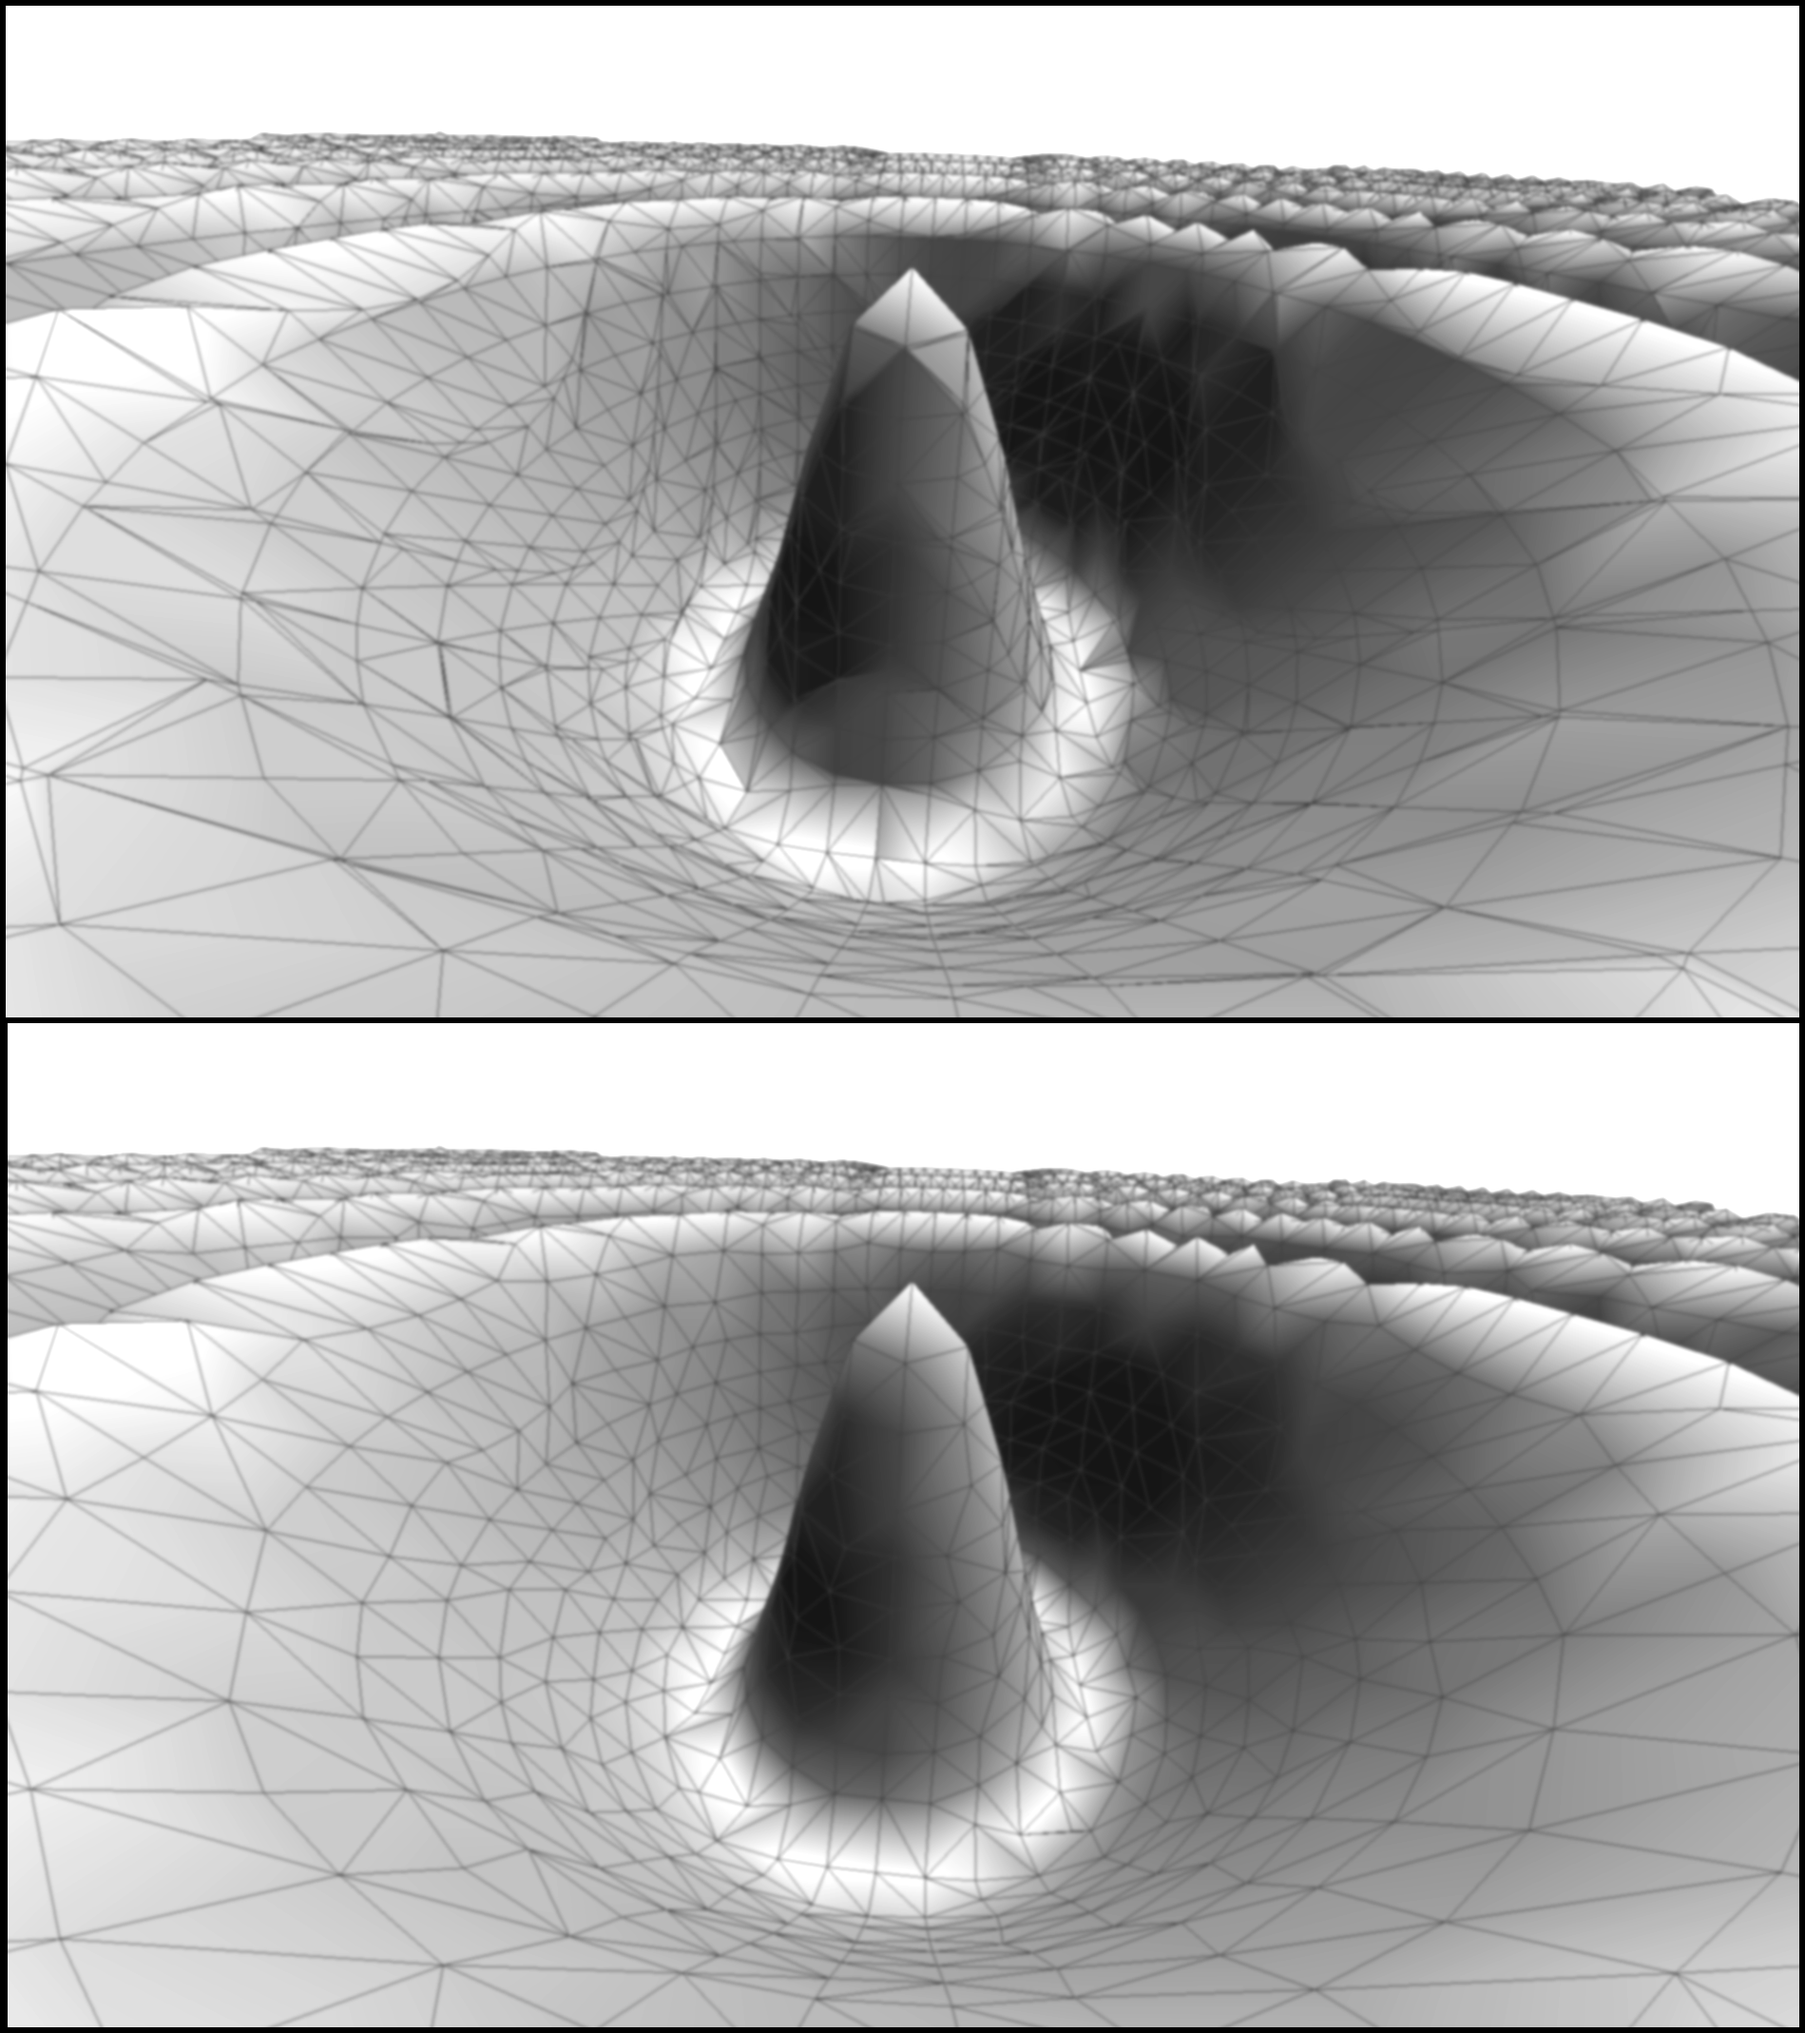
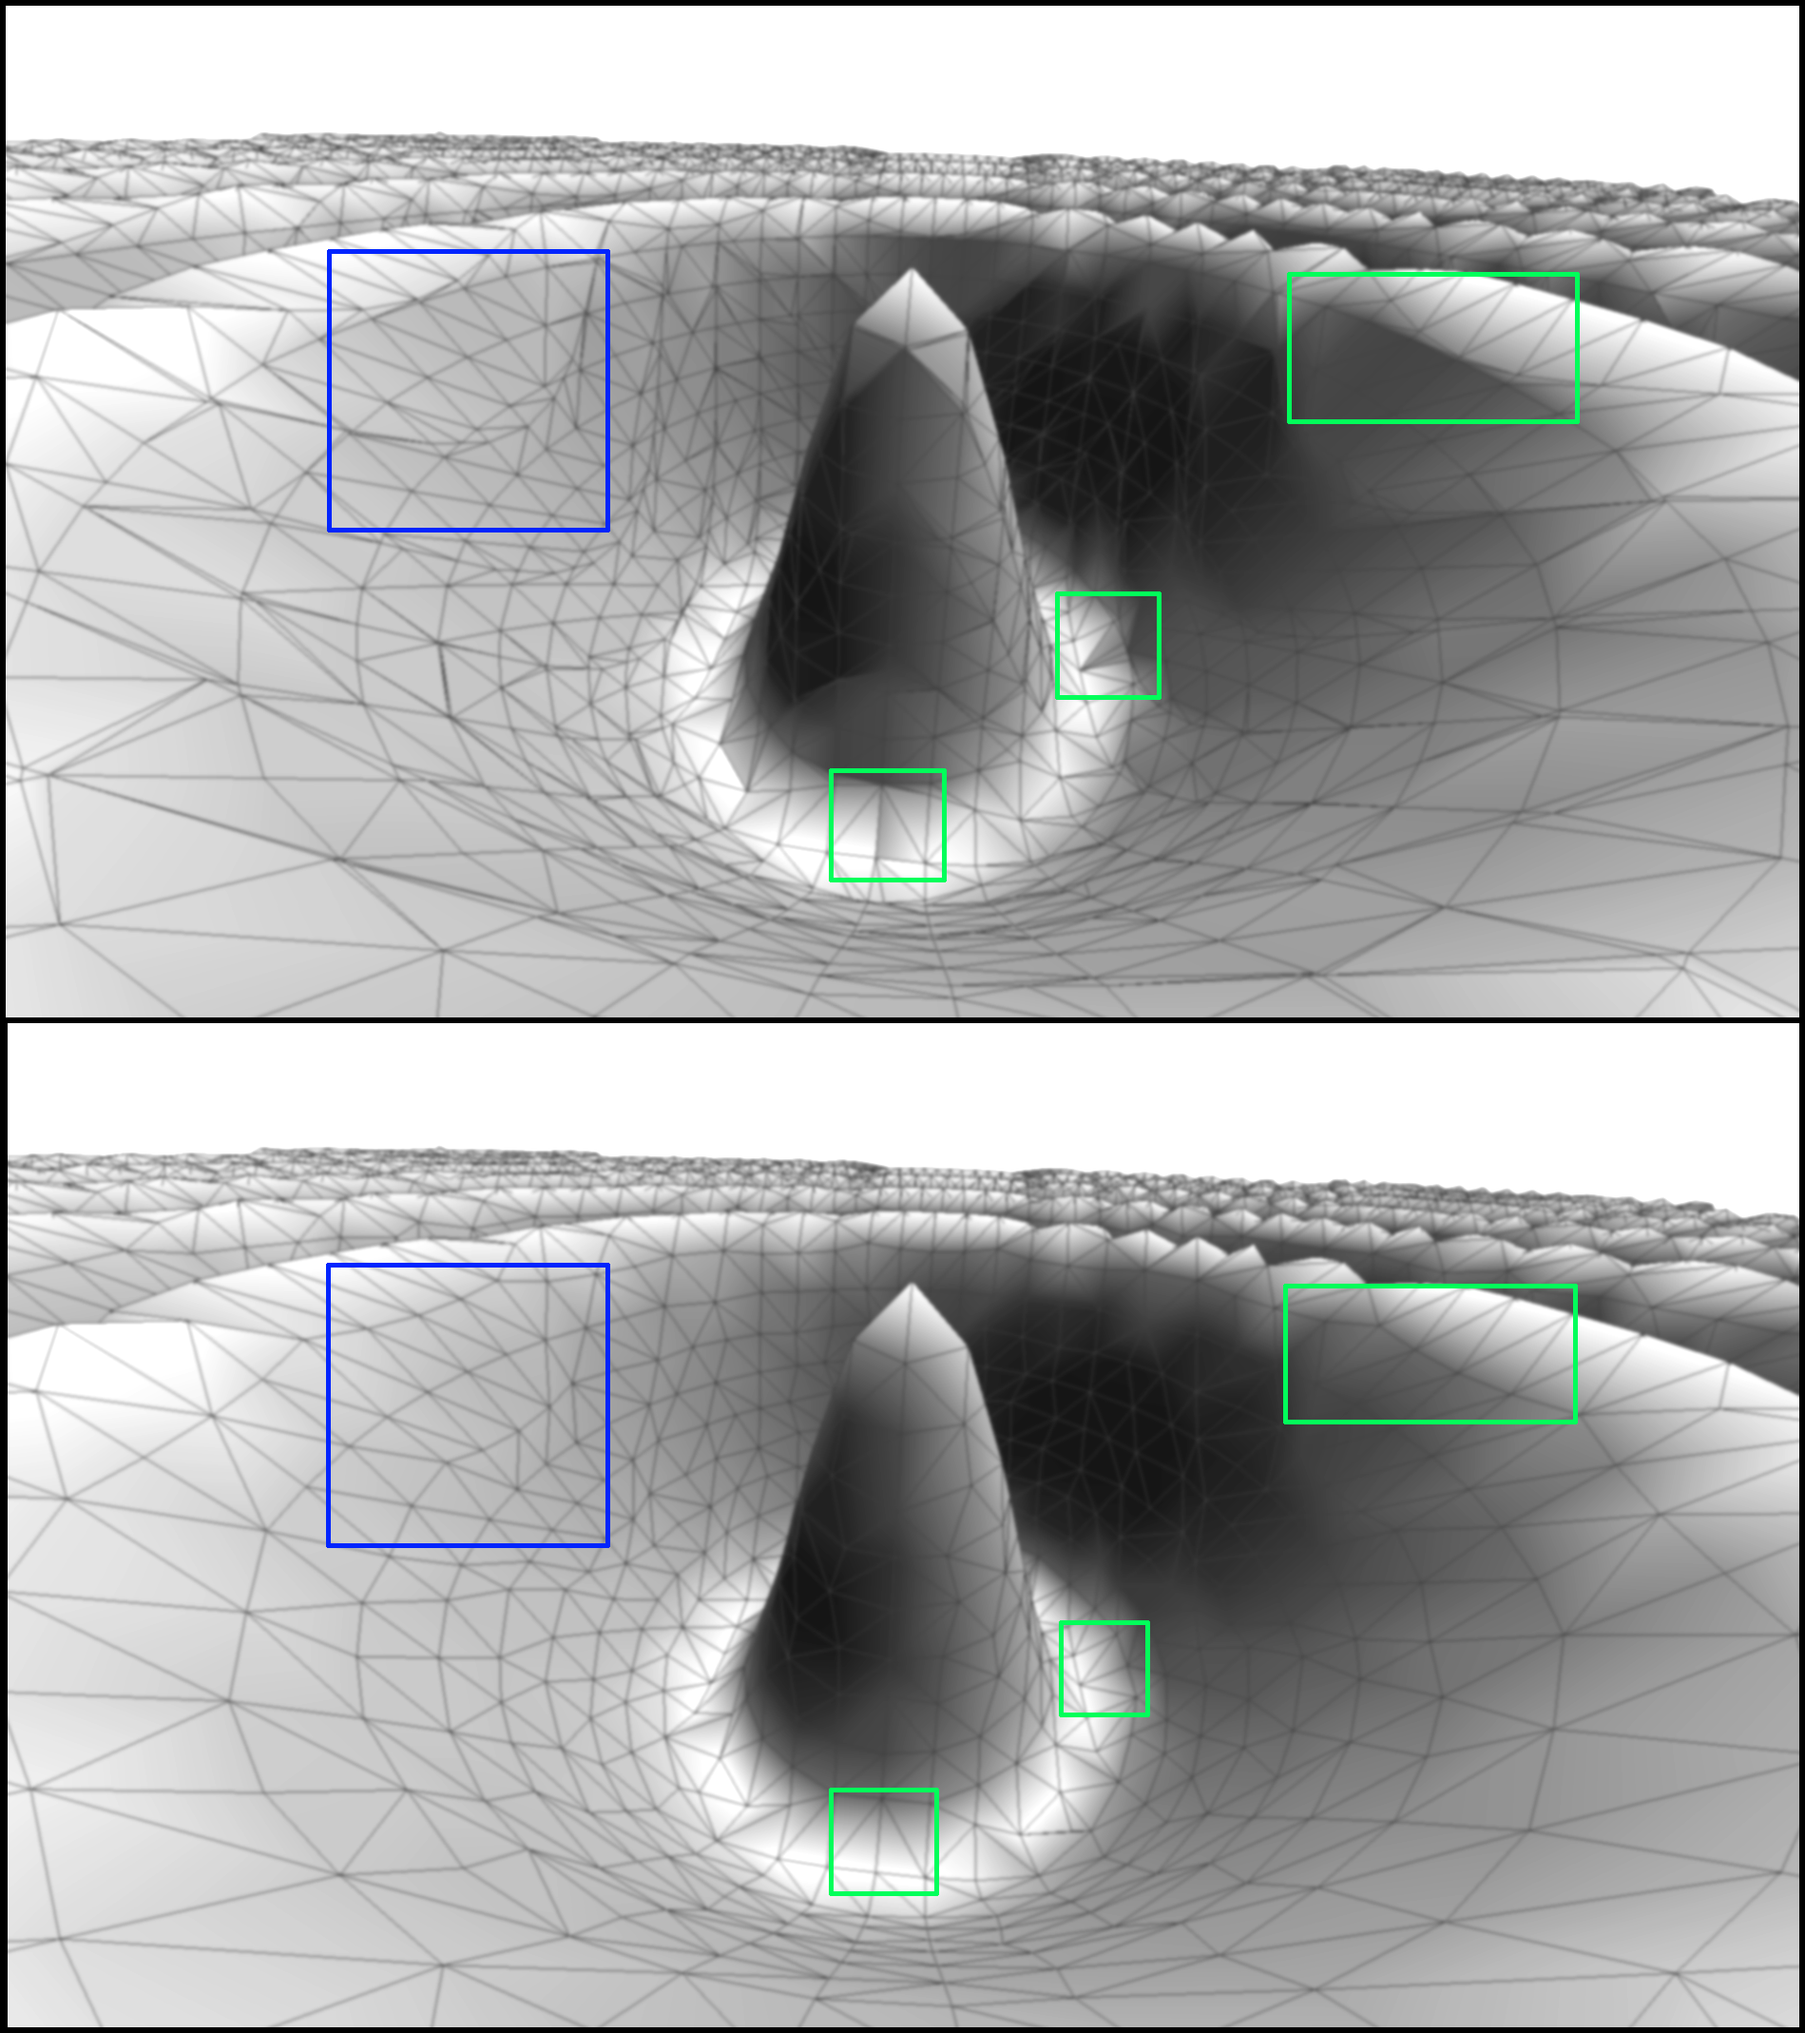
Modified Figure 9

diff --git a/TopologyReconstruction.tex b/TopologyReconstruction.tex
@@ -755,7 +755,9 @@ Carr et al. \cite{Carr2006} describe several ways to subdivide voxel grids into 
 Observant readers may notice a similarity between our proposed algorithms and those supported by the MapReduce framework \cite{MapReduce}. Like MapReduce, our algorithms first map keys to values then collect keys and reduce the values. Although we believe our algorithms could be implemented in a MapReduce framework (an exercise we leave to the reader), it would require additional collection operations to resolve topological connections. Other researchers 
 \cite{Stuart2010}\cite{Vo2011} have implemented visualization algorithms directly in MapReduce, but they serve purposes other than those we address.
 
-In most cases, existing GPU implementations of Marching Cubes do not determine connectivity information on output contour surfaces, but instead simply forward disconnected geometry for rendering. For example, \textcolor{red}{CITE, CITE, CITE, and CITE} all work in this manner. However, many serial implementations exist that determine topological connectivity information from discrete geometry. For example, VTK and ParaView make use of a point-locator method, which works by beginning with an empty search structure and progressively updating it with each point, checking for duplicates along the way. There also exist efficient implementations of similar search structures for finely threaded cases such as the GPU \textcolor{red}{CITE}, but these are most applicable when the resultant structures will be used extensively as in the case of raytracing. Because operations like tetrahedralization, Marching Cubes (and other contour methods), dual mesh generation, and even simple subdivision can radically alter topology, we can not depend on the reuse of large search structures. Instead, we require a lightweight approach that can generate a new representation of topology quickly using known information from a previous representation.
+In most cases, existing GPU implementations of Marching Cubes do not determine connectivity information on output contour surfaces, but instead simply forward disconnected geometry for rendering \cite{Dyken2008} \cite{Goetz_Junklewitz_Domik_2005} \cite{Johansson_Carr_2006}. However, many serial implementations exist that determine topological connectivity information from discrete geometry. For example, VTK and ParaView make use of a point-locator method, which works by beginning with an empty search structure and progressively updating it with each point, checking for duplicates along the way. There also exist efficient implementations of similar search structures for finely threaded cases such as the GPU \cite{Zhou_Hou_Wang_Guo_2008}, but these are most applicable when the resultant structures will be used extensively as in the case of raytracing. Because operations like tetrahedralization, Marching Cubes (and other contour methods), dual mesh generation, and even simple subdivision can radically alter topology, we can not depend on the reuse of large search structures. Instead, we require a lightweight approach that can generate a new representation of topology quickly using known information from a previous representation.
+
+Late in the paper, we describe a mesh coarsening method which improves triangle output quality over that normally provided by Marching Cubes. There are previously existing methods to obtain improved triangle quality from Marching Cubes \cite{Moore_Warren_1991}. The advantage we provide over these methods is that when topological information is also required we can also perform our coarsening technique in the same pass thus requiring no additional computational cost. 
 
 \section{Merging Algorithm}
 Without significant modification of the algorithms generating topological features,
@@ -905,7 +907,7 @@ types of geometric elements and then merge each group into single outputs. The w
   \zi     \Do
   \li         $\id{sort-index} \gets \id{sort-index-start}$
   \zi         \>\>\>\> $+ \id{group-index}$
-  \li         $v \gets \id{merge}(\id{sorted-values}[\id{sort-index}]$
+  \li         $v \gets \id{merge}(\id{sorted-values}[\id{sort-index}])$
           \End
   \li     $\id{welded-values}[\id{weld-index}]$
   \zi     \>\> $\gets \id{transform}(v, count)$
@@ -1200,7 +1202,7 @@ Performance for averaging scales approximately linearly with the number of input
 \label{sec:coarsening}
 Many algorithms that make use of an input topology must modify that topology to produce their output. To demonstrate how such an algorithm can be constructed with our technique, we implement a form of simple mesh coarsening. Traditional implementations of mesh coarsening operate without regard to the mesh's provenance by either iteratively collapsing features \cite{Potter2011} or collectively clustering vertices \cite{DeCoro2007}.  However, by combining edge collapsing with vertex welding we can provide a first-level coarsening that is fast, has low error, provides well-formed cells, and adapts to the structure of the original mesh.
 
-Rather than computing the topological connectivity of the original generated data and then coarsening it thereafter, we instead alter the input key array to our Vertex Welding technique to perform a type of coarsening in the process of topological connectivity generation. Furthermore, this technique is intended to be more practically useful than the first implementation in that it would improve mesh quality. Specifically, it is our goal to eliminate poor quality triangles in the mesh while performing minimal modifications to the others. We define triangle quality $Q$ as in Equation~\ref{eq:quality}, where $h_x$ are side lengths and $a$ is the triangle area. This quality metric operates only on triangle shape, and is agnostic to triangle size.
+Rather than computing the topological connectivity of the original generated data and then coarsening it thereafter, we instead alter the input key array to our Vertex Welding technique to perform a type of coarsening in the process of topological connectivity generation. Specifically, it is our goal to eliminate poor quality triangles in the mesh while performing minimal modifications to the others, without requiring an additional processing pass. We define triangle quality $Q$ as in Equation~\ref{eq:quality}, where $h_x$ are side lengths and $a$ is the triangle area. This quality metric operates only on triangle shape, and is agnostic to triangle size.
 
 \begin{equation}
 \label{eq:quality}
@@ -1251,8 +1253,8 @@ all instances of faces containing two or more identical indices. This invalidate
 A larger problem with the coarsening technique is that in some cases, such as the case shown in Figure \ref{fig:Nonmanifold}, non-manifold surface elements may be generated. If such surface elements are undesirable, they may be eliminated by calculating the maximum edge curvature of each triangle, and removing all triangles containing an edge curvature of $180^{\circ}$.
 
 \begin{figure}[!tb]
-\includegraphics[width=\columnwidth]{Coarsening}
-\caption{Top: Before coarsening. Bottom: After coarsening. Note that skinny triangles caused by the underlying voxel grid are removed in the bottom image. Removal of these triangles eliminates the artifacts visible along the crests and valleys of the top image, and provides a better sampling of vertex properties across the contour surface. The coarsened mesh in the bottom image contains approximately half the triangle count of the mesh in the top image.}
+\includegraphics[width=\columnwidth]{Coarsening.jpg}
+\caption{Top: Before coarsening. Bottom: After coarsening. Note that skinny triangles caused by the underlying voxel grid are removed in the bottom image. Removal of these triangles eliminates the artifacts visible along the crests and valleys of the top image, and provides a better sampling of vertex properties across the contour surface. The coarsened mesh in the bottom image contains approximately half the triangle count of the mesh in the top image. The blue region (left) shows how triangle quality is improved by eliminating thin triangles near input voxel borders. The green regions show improvements to surface interpolation made possible by removal of the thin triangles.}
 
 \label{fig:coarsening}
 \end{figure}
@@ -1284,7 +1286,7 @@ OpenMP & 28 & 122 & 561 & 2567 & 122 & 807 & 6208 \\
 \includegraphics[height=7.05cm]{MergedFigures.pdf}
 \caption{Left: Scatterplot of triangle area and triangle quality for the MRI head dataset as calculated in Eq. \ref{eq:quality} in Section \ref{sec:coarsening}. Note that in general the triangles that are removed by our coarsening (green) are either small or poor quality as compared with other triangles in the distribution. Triangles that are not removed by the coarsening (orange) are transformed by the coarsening into the output triangles (blue). While not all passed triangles are improved by this coarsening, there is a lower bound on produced triangle quality. After coarsening, most of the triangles are relatively large and high quality.
 Top Right: Histograms of the quality of passed, removed, and coarsened triangles.
-Bottom Right: Cumulative distributions of triangles before and after coarsening. Our coarsening generally reduces the size of the output mesh to approximately half of its original size. Median quality of the removed triangles is approximately $Q=0.5$. Median quality of passed triangles is approximately $Q=0.85$, and after coarsening the median quality of the output triangles remains at approximately $Q=0.85$.}
+Bottom Right: Cumulative distributions of triangles before and after coarsening. Our coarsening generally reduces the size of the output mesh to approximately half of its original size. Median quality of the removed triangles is approximately $Q=0.5$. Median quality of passed triangles is approximately $Q=0.85$, and after coarsening the median quality of the output triangles remains at approximately $Qb=0.85$.}
 \label{fig:coarseninggraphs}
 \end{center}
 \end{figure*}
@@ -1558,6 +1560,11 @@ M.~Garland, A.~Willmott, and P.~S. Heckbert.
 \newblock {\em Proceedings of the 2001 symposium on Interactive 3D graphics
   SI3D 01}, pages 49--58, 2001.
 
+\bibitem{Goetz_Junklewitz_Domik_2005}
+F. Goetz, T. Junklewitz and G. Domik.
+\newblock Real-Time Marching Cubes on the Vertex Shader.
+\newblock In {\em EUROGRAPHICS}, pages 1--4, 2005.
+
 \bibitem{Hoppe1996}
 H.~Hoppe.
 \newblock {Progressive meshes}.
@@ -1576,6 +1583,11 @@ H.~Hsieh and W.~Tai.
   visualization}.
 \newblock {\em Simulation Modelling Practice and Theory}, 13(8):681--692, Nov.
   2005.
+  
+\bibitem{Johansson_Carr_2006}
+G. Johansson and H. Carr.
+\newblock Accelerating marching cubes with graphics hardware.
+\newblock In {\em Proceedings of the 2006 conference of the Center for Advanced Studies on Collaborative research CASCON 06}, page 39, 2006.
 
 \bibitem{Kipfer2005}
 P.~Kipfer and R.~Westermann.
@@ -1595,6 +1607,11 @@ W.~E. Lorensen and H.~E. Cline.
 \newblock {Marching cubes: A high resolution 3D surface construction
   algorithm}.
 \newblock {\em Computer}, 21(4):163--169, 1987.
+
+\bibitem{Moore_Warren_1991}
+D. Moore and J. D. Warren.
+\newblock Mesh displacement: An improved contouring method for trivariate data.
+\newblock In {\em Computer}, pages 1--15, 1991
 
 \bibitem{Park}
 J.~Park, B.~Choi, and Y.~Chung.
@@ -1639,6 +1656,11 @@ H.~T. Vo, J.~Bronson, B.~Summa, J.~L. Comba, J.~Freire, B.~Howe, V.~Pascucci,
 \newblock In {\em Proceedings of the IEEE Symposium on Large-Scale Data
   Analysis and Visualization}, pages 81--88, October 2011.
 \newblock {DOI}~10.1109/LDAV.2011.6092321.
+
+\bibitem{Zhou_Hou_Wang_Guo_2008}
+K. Zhou, Q. Hou, R. Wang, and B. Guo.
+\newblock Real-time KD-tree construction on graphics hardware.
+\newblock In {\em ACM Transactions on Graphics}, 27(5):1, 2008.
 
 \end{thebibliography}
 
